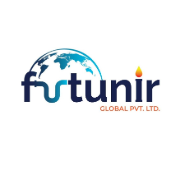
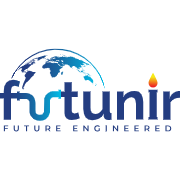
Updated

diff --git a/index.html b/index.html
@@ -24,10 +24,10 @@
       name="description"
       content="Futunir Global delivers high-quality, constructible engineering solutions across Oil & Gas, Pharma, Semiconductors & Buildings."
     />
-    <meta name="author" content="Futunir Global Pvt Ltd" />
+    <meta name="author" content="Future Engineered" />
 
     <!-- Open Graph -->
-    <meta property="og:title" content="Futunir Global Pvt Ltd | Let's Engineer the Future Together" />
+    <meta property="og:title" content="Future Engineered | Let's Engineer the Future Together" />
     <meta
       property="og:description"
       content="Engineering-led design company delivering constructible, cost-effective solutions globally."
